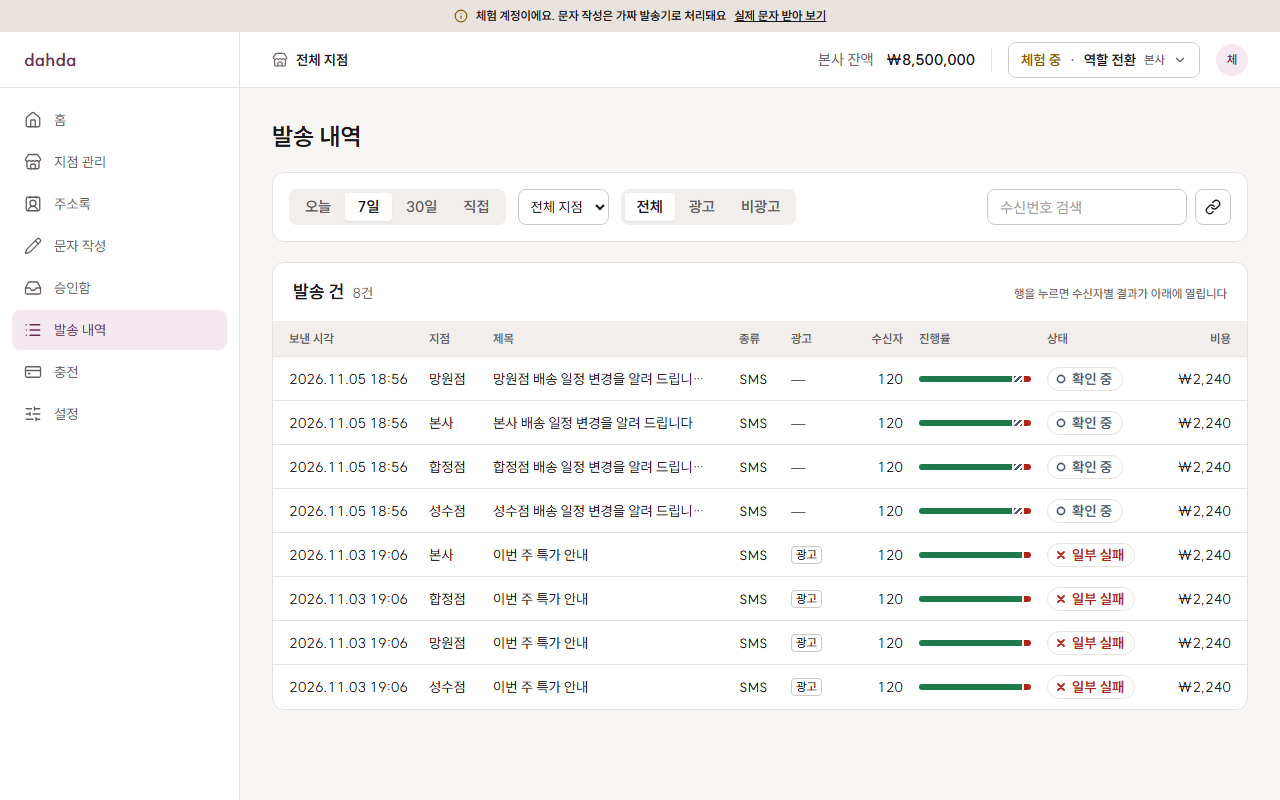
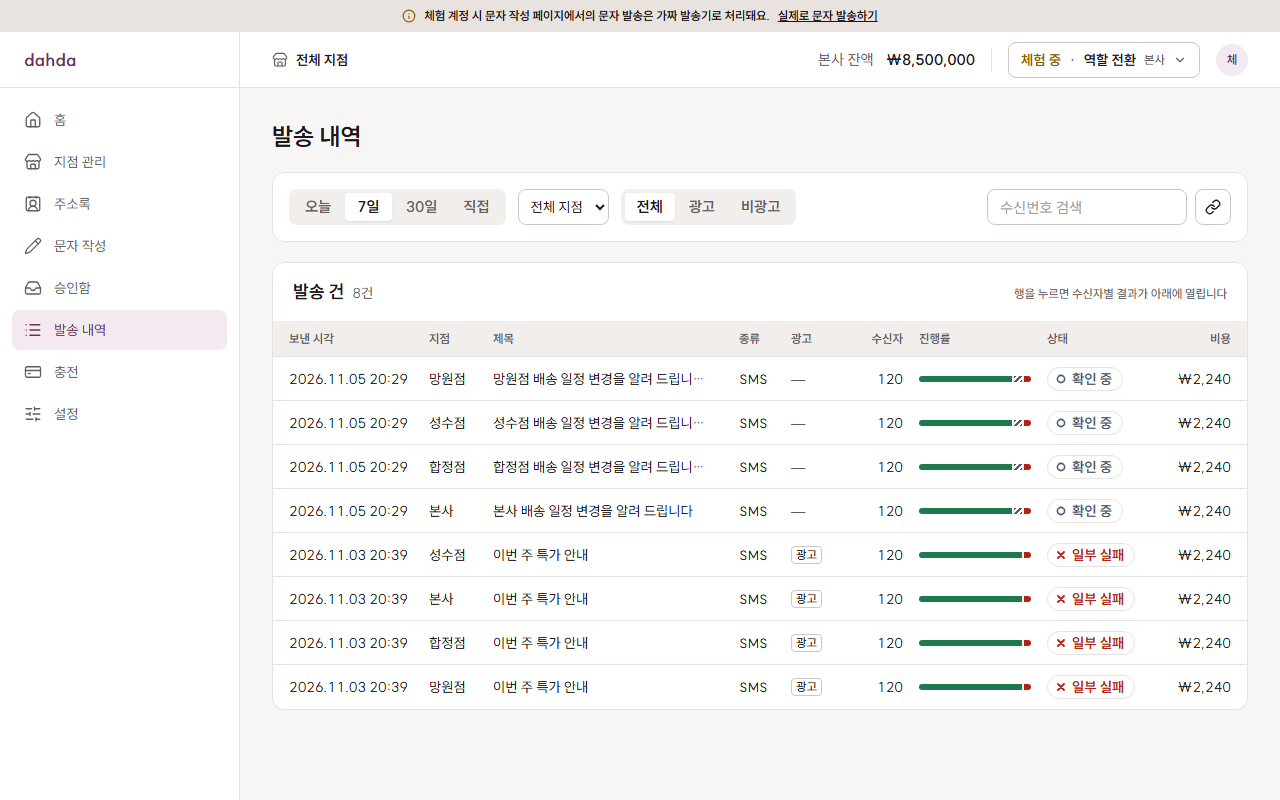
feat: 체험 안내를 고치고 링크 미리보기와 체험 우선 로그인 화면을 만든다
방문자 대부분이 가입하지 않으므로 체험 버튼을 입력칸 위에 크게 둔다.
링크 미리보기 태그와 이미지를 넣고, 이미지는 로그인 없이 받을 수 있게 프록시에서 뺀다.
안내 문구가 바뀌어 화면 비교 기준 이미지를 다시 만든다.

diff --git a/src/features/auth/login-panel.tsx b/src/features/auth/login-panel.tsx
@@ -43,6 +43,26 @@ export function LoginPanel() {
         </p>
       </div>
 
+      {/* 방문자 대부분은 채용 담당자라 가입하지 않는다. 체험을 먼저, 크게 둔다. */}
+      <div className="flex flex-col gap-2">
+        <Button
+          onClick={beginTrial}
+          disabled={pending}
+          className="h-12 text-[15px]"
+        >
+          로그인 없이 체험하기
+        </Button>
+        <p className="text-center text-caption text-text-muted">
+          샘플 데이터예요. 실제 문자는 번호를 직접 넣을 때만 나가요
+        </p>
+      </div>
+
+      <div className="flex items-center gap-3 text-caption text-text-muted">
+        <span aria-hidden className="h-px flex-1 bg-border" />
+        이미 계정이 있다면
+        <span aria-hidden className="h-px flex-1 bg-border" />
+      </div>
+
       <form
         onSubmit={handleSubmit(submit)}
         noValidate
@@ -92,25 +112,17 @@ export function LoginPanel() {
           </p>
         )}
 
-        <Button type="submit" disabled={pending}>
+        <Button type="submit" variant="secondary" disabled={pending}>
           로그인
         </Button>
       </form>
 
-      <div className="flex flex-col gap-2 border-t border-border pt-6">
-        <Button variant="secondary" onClick={beginTrial} disabled={pending}>
-          로그인 없이 체험하기
-        </Button>
-        <p className="text-center text-caption text-text-muted">
-          샘플 데이터예요. 실제 문자는 번호를 직접 넣을 때만 나가요
-        </p>
-        <Link
-          href="/privacy"
-          className="text-center text-caption text-text-muted underline"
-        >
-          개인정보처리방침
-        </Link>
-      </div>
+      <Link
+        href="/privacy"
+        className="text-center text-caption text-text-muted underline"
+      >
+        개인정보처리방침
+      </Link>
     </div>
   );
 }

diff --git a/e2e/og.spec.ts b/e2e/og.spec.ts
@@ -1,0 +1,39 @@
+import { expect, test } from "@playwright/test";
+
+// 메신저와 SNS는 로그인하지 않고 읽는다. 세션 없는 요청으로 확인한다.
+test.describe("링크 미리보기", () => {
+  test("첫 주소에 제목, 설명, 이미지 태그가 있다", async ({ page }) => {
+    await page.goto("/");
+    const content = (property: string) =>
+      page.locator(`meta[property="${property}"]`).getAttribute("content");
+
+    expect(await content("og:title")).toContain("dahda");
+    expect(await content("og:description")).toContain("문자");
+    expect(await content("og:image")).toMatch(/^https:\/\/.+\/opengraph-image/);
+    expect(await content("og:image:width")).toBe("1200");
+  });
+
+  test("이미지는 로그인 없이 받을 수 있다", async ({ page, request }) => {
+    await page.goto("/");
+    const image = await page
+      .locator('meta[property="og:image"]')
+      .getAttribute("content");
+    const { pathname, search } = new URL(image ?? "");
+    const response = await request.get(`${pathname}${search}`, {
+      maxRedirects: 0,
+    });
+    expect(response.status()).toBe(200);
+    expect(response.headers()["content-type"]).toContain("image/png");
+  });
+});
+
+test("로그인 화면은 체험 버튼이 입력칸보다 먼저 나온다", async ({ page }) => {
+  await page.goto("/login");
+  const trial = page.getByRole("button", { name: "로그인 없이 체험하기" });
+  const email = page.getByLabel("이메일");
+  const trialBox = await trial.boundingBox();
+  const emailBox = await email.boundingBox();
+  expect(trialBox?.y ?? Infinity).toBeLessThan(emailBox?.y ?? 0);
+  // 크기 클래스가 글자색을 지운 적이 있다. 보라 바탕의 글자가 검으면 읽기 어렵다.
+  await expect(trial).toHaveCSS("color", "rgb(255, 255, 255)");
+});

diff --git a/src/app/layout.tsx b/src/app/layout.tsx
@@ -1,10 +1,29 @@
 import type { Metadata } from "next";
 import "./globals.css";
 
+const TITLE = "dahda · 문자가 닿았는지까지 확인하는 발송 콘솔";
+const DESCRIPTION =
+  "마트·소상공인이 손님에게 문자를 보내고, 도착 결과까지 확인하는 B2B 문자 발송 관리자 콘솔. 로그인 없이 체험할 수 있어요.";
+
 export const metadata: Metadata = {
+  // 미리보기 이미지는 절대 주소여야 한다. 메신저와 SNS는 상대 경로를 읽지 못한다.
+  metadataBase: new URL("https://dahda-xi.vercel.app"),
   title: "dahda",
-  description:
-    "문자가 닿았는지까지 확인하는 마트·소상공인용 문자 발송 관리자 콘솔",
+  description: DESCRIPTION,
+  // 이미지는 같은 폴더의 opengraph-image.png를 Next.js가 자동으로 넣는다.
+  openGraph: {
+    title: TITLE,
+    description: DESCRIPTION,
+    url: "/",
+    siteName: "dahda",
+    locale: "ko_KR",
+    type: "website",
+  },
+  twitter: {
+    card: "summary_large_image",
+    title: TITLE,
+    description: DESCRIPTION,
+  },
 };
 
 export default function RootLayout({ children }: LayoutProps<"/">) {

diff --git a/src/components/shell/shell-sections.tsx b/src/components/shell/shell-sections.tsx
@@ -27,17 +27,17 @@ export async function TrialBanner() {
   return (
     <div
       role="note"
-      className="flex h-8 flex-none items-center justify-center gap-2 border-b border-border bg-surface-3 text-caption font-bold"
+      className="flex min-h-8 flex-none flex-wrap items-center justify-center gap-x-2 border-b border-border bg-surface-3 px-4 py-1 text-center text-caption font-bold [word-break:keep-all]"
     >
       <Info
         aria-hidden
-        className="size-3.5 text-status-pending"
+        className="hidden size-3.5 text-status-pending sm:block"
         strokeWidth={2}
       />
-      체험 계정이에요. 문자 작성은 가짜 발송기로 처리돼요
+      체험 계정 시 문자 작성 페이지에서의 문자 발송은 가짜 발송기로 처리돼요.
       {demoSenderNumber() && (
         <Link href="/demo-sms" className="font-bold underline">
-          실제 문자 받아 보기
+          실제로 문자 발송하기
         </Link>
       )}
     </div>

diff --git a/src/proxy.ts b/src/proxy.ts
@@ -58,7 +58,8 @@ export async function proxy(request: NextRequest) {
 
 export const config = {
   // 웹훅은 업체가 부르므로 세션이 없고, 정적 파일은 인증이 필요 없다.
+  // 미리보기 이미지를 빼지 않으면 로그인 화면으로 넘어가 메신저에 이미지가 보이지 않는다.
   matcher: [
-    "/((?!_next/static|_next/image|favicon.ico|api/webhooks|api/payments/webhook).*)",
+    "/((?!_next/static|_next/image|favicon.ico|opengraph-image|api/webhooks|api/payments/webhook).*)",
   ],
 };

diff --git a/e2e/demo-sms.spec.ts b/e2e/demo-sms.spec.ts
@@ -9,7 +9,7 @@ test.describe("실제 문자 받아 보기", () => {
   test.beforeEach(async ({ page }) => {
     await page.goto("/login");
     await page.getByRole("button", { name: "로그인 없이 체험하기" }).click();
-    await page.getByRole("link", { name: "실제 문자 받아 보기" }).click();
+    await page.getByRole("link", { name: "실제로 문자 발송하기" }).click();
     await expect(page).toHaveURL(/\/demo-sms/);
   });
 

diff --git a/e2e/auth.spec.ts b/e2e/auth.spec.ts
@@ -14,7 +14,7 @@ test.describe("체험하기", () => {
 
     await expect(page).toHaveURL("http://127.0.0.1:3000/");
     await expect(page.getByRole("note")).toContainText(
-      "문자 작성은 가짜 발송기로 처리돼요",
+      "문자 발송은 가짜 발송기로 처리돼요",
     );
     const header = page.getByRole("banner");
     await expect(header).toContainText("전체 지점");

diff --git a/README.md b/README.md
@@ -11,7 +11,7 @@
 
 > **포트폴리오 프로젝트입니다.** 1차 범위가 끝났고, 아래 [진행 상황](#진행-상황)에 있는 만큼 동작합니다.
 >
-> **[체험해 보기](https://dahda-xi.vercel.app)**: 로그인 없이 샘플 본사로 들어가 본사·지점 역할을 바꿔 볼 수 있습니다. 샘플 데이터이고 문자 작성 화면의 발송은 가짜 발송기로 처리되며, 체험 데이터는 3일 뒤 삭제됩니다. 상단의 **실제 문자 받아 보기**에서는 본인 번호로 고정 문구 1건을 실제로 받아 볼 수 있습니다.
+> **[체험해 보기](https://dahda-xi.vercel.app)**: 로그인 없이 샘플 본사로 들어가 본사·지점 역할을 바꿔 볼 수 있습니다. 샘플 데이터이고 문자 작성 화면의 발송은 가짜 발송기로 처리되며, 체험 데이터는 3일 뒤 삭제됩니다. 상단의 **실제로 문자 발송하기**에서는 본인 번호로 고정 문구 1건을 실제로 받아 볼 수 있습니다.
 
 | 로그인 | 역할 전환 |
 | --- | --- |
@@ -170,7 +170,7 @@ npm run dev                 # http://127.0.0.1:3000
 
 로그인 화면의 **로그인 없이 체험하기**를 누르면 샘플 본사로 들어갑니다. 샘플 데이터이고 문자 작성 화면의 발송은 가짜 발송기로 처리됩니다.
 
-배포 사이트에서는 상단의 **실제 문자 받아 보기**에서 본인 번호를 넣으면 고정 문구 1건이 문자 업체를 통해 실제로 나가고, 접수에서 도착까지 상태가 웹훅으로 바뀌는 것을 폰과 함께 볼 수 있습니다. 본문은 서버 고정값이고, 체험 계정·번호마다 1건, 전체 하루 10건으로 제한됩니다.
+배포 사이트에서는 상단의 **실제로 문자 발송하기**에서 본인 번호를 넣으면 고정 문구 1건이 문자 업체를 통해 실제로 나가고, 접수에서 도착까지 상태가 웹훅으로 바뀌는 것을 폰과 함께 볼 수 있습니다. 본문은 서버 고정값이고, 체험 계정·번호마다 1건, 전체 하루 10건으로 제한됩니다.
 
 10만 행 측정 데이터가 필요하면 `npm run db:seed:large`를 실행합니다.
 
